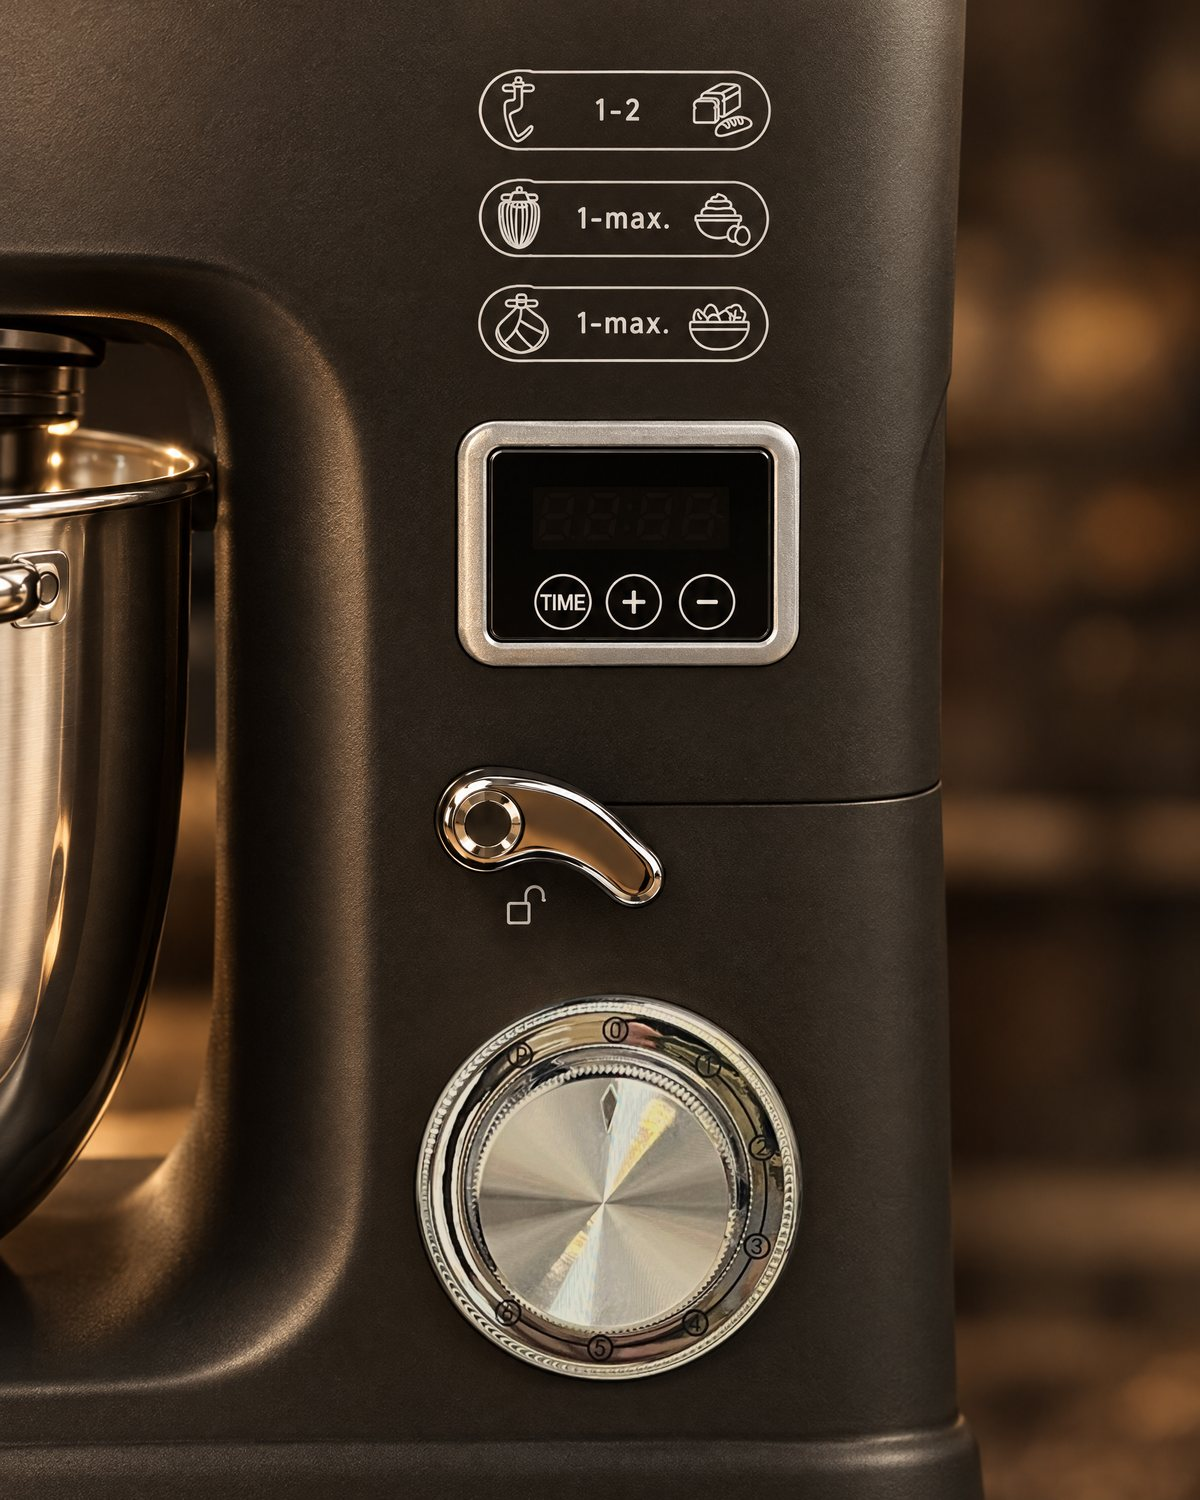
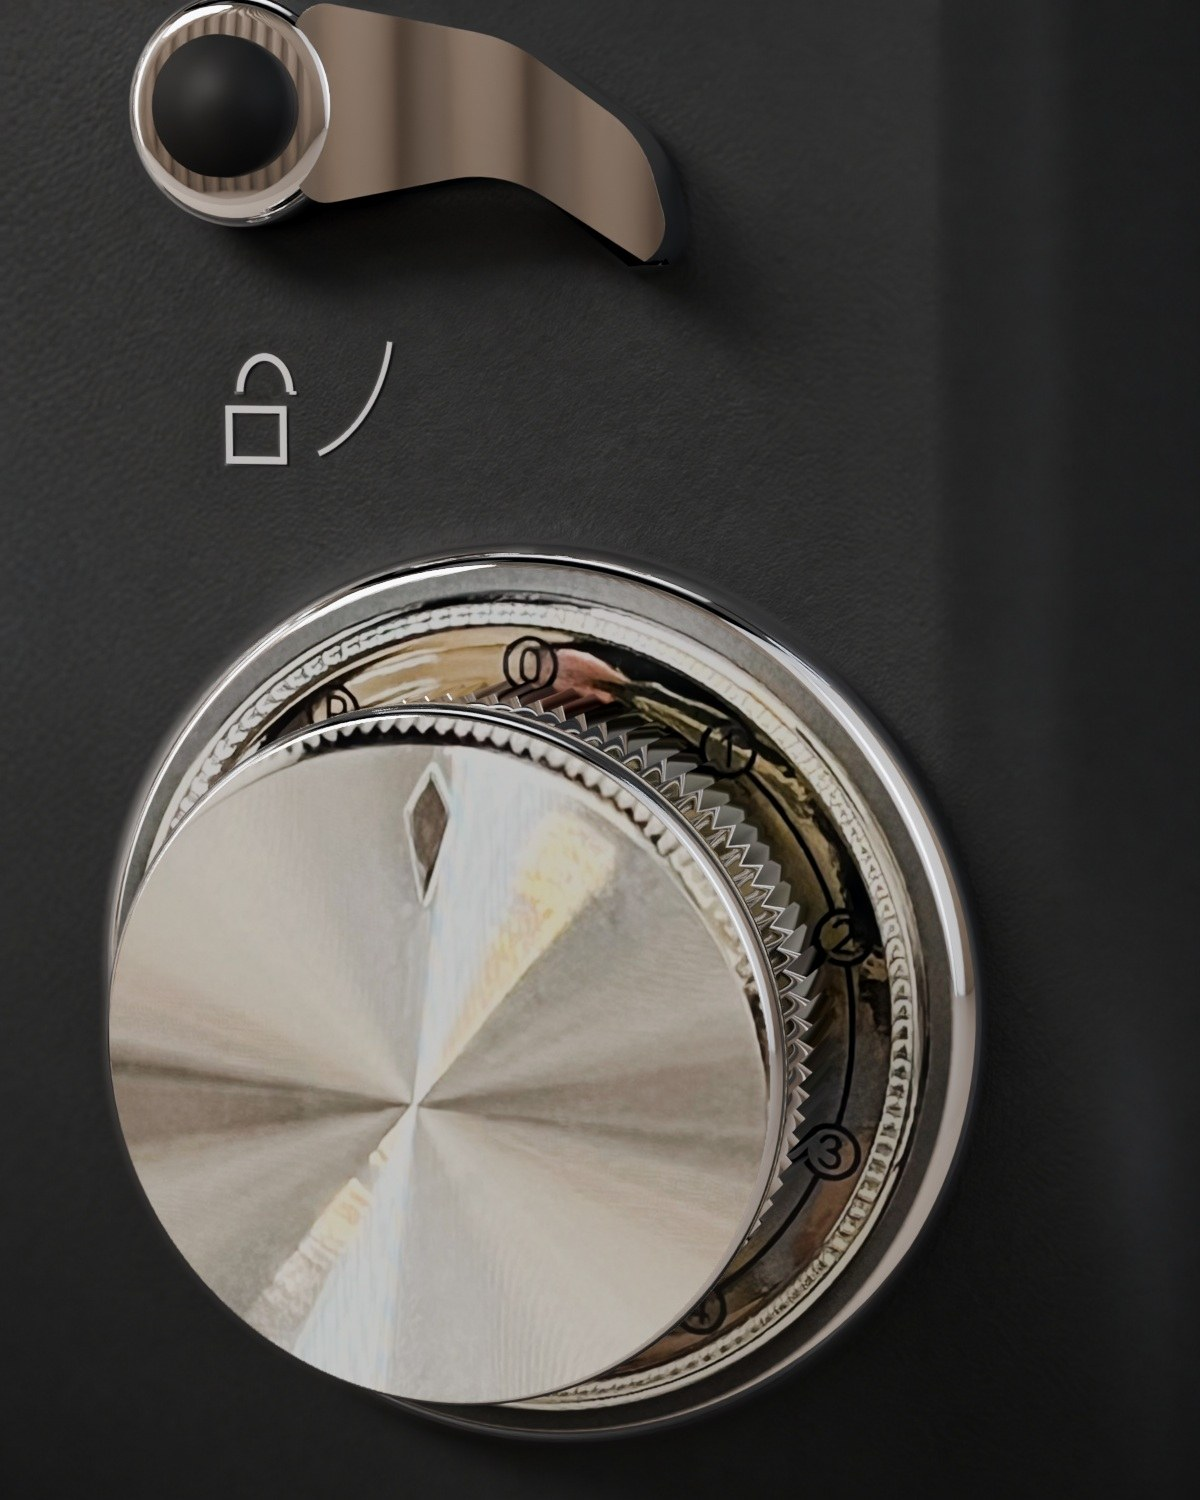
Guide: studio photos from the 3D model for blender, meat grinder and control panel
Claude-Session: https://claude.ai/code/session_01LYzwHMsTzQwc44MpRiCAfd

diff --git a/guide/kk/sm23/attachments/index.html b/guide/kk/sm23/attachments/index.html
@@ -75,7 +75,7 @@
     <div class="body"><span class="meta">Тостағанда · жылдамдық 1–6</span><h3>Көрекше</h3><span class="meta">Қою массалар мен пісірме қамырға</span></div></a><a class="card att" href="/kk/sm23/attachments/whisk/">
     <div class="ph"><img src="/img/a-whisk.jpg?v=fa7d1466" alt="Венчик (көпіршіткіш)" loading="lazy"></div>
     <div class="body"><span class="meta">Тостағанда · жылдамдық 1–6</span><h3>Венчик (көпіршіткіш)</h3><span class="meta">Ауалы массаларға</span></div></a></div></section><section class="grp"><p class="eyebrow">Бүйір жағында</p><div class="grid"><a class="card att" href="/kk/sm23/attachments/grinder/">
-    <div class="ph"><img src="/img/a-grinder.jpg?v=bcc8e13c" alt="Ет тартқыш" loading="lazy"></div>
+    <div class="ph"><img src="/img/a-grinder.jpg?v=696e9a77" alt="Ет тартқыш" loading="lazy"></div>
     <div class="body"><span class="meta">Бүйір жағында · жылдамдық 1–6</span><h3>Ет тартқыш</h3><span class="meta">Қайма, шұжық және кеббе</span></div></a><a class="card att" href="/kk/sm23/attachments/slicer/">
     <div class="ph"><img src="/img/a-slicer.jpg?v=1840bae2" alt="Көкөніс турағыш" loading="lazy"></div>
     <div class="body"><span class="meta">Бүйір жағында</span><h3>Көкөніс турағыш</h3><span class="meta">Үккіш және тілімдеп кесу</span></div></a><a class="card att" href="/kk/sm23/attachments/roller/">
@@ -83,7 +83,7 @@
     <div class="body"><span class="meta">Бүйір жағында</span><h3>Қамыр жаятын қондырма</h3><span class="meta">Тегіс жұқа қамыр бірнеше минутта</span></div></a><a class="card att" href="/kk/sm23/attachments/noodle/">
     <div class="ph"><img src="/img/a-noodle.jpg?v=b1b41049" alt="Кеспе турағыш" loading="lazy"></div>
     <div class="body"><span class="meta">Бүйір жағында</span><h3>Кеспе турағыш</h3><span class="meta">Лағман мен сорпаға үйдегі кеспе</span></div></a></div></section><section class="grp"><p class="eyebrow">Үстінде</p><div class="grid"><a class="card att" href="/kk/sm23/attachments/blender/">
-    <div class="ph"><img src="/img/a-blender.jpg?v=52a4989d" alt="Шыны блендер" loading="lazy"></div>
+    <div class="ph"><img src="/img/a-blender.jpg?v=1df22018" alt="Шыны блендер" loading="lazy"></div>
     <div class="body"><span class="meta">Үстінде</span><h3>Шыны блендер</h3><span class="meta">Смузи, езбе сорпа, тұздық</span></div></a></div></section>
   </div>
 </div></div>

diff --git a/guide/sm23/attachments/index.html b/guide/sm23/attachments/index.html
@@ -75,7 +75,7 @@
     <div class="body"><span class="meta">В чаше · скорость 1–6</span><h3>Лопатка</h3><span class="meta">Для густых масс и теста для выпечки</span></div></a><a class="card att" href="/sm23/attachments/whisk/">
     <div class="ph"><img src="/img/a-whisk.jpg?v=fa7d1466" alt="Венчик" loading="lazy"></div>
     <div class="body"><span class="meta">В чаше · скорость 1–6</span><h3>Венчик</h3><span class="meta">Для воздушных масс</span></div></a></div></section><section class="grp"><p class="eyebrow">Сбоку</p><div class="grid"><a class="card att" href="/sm23/attachments/grinder/">
-    <div class="ph"><img src="/img/a-grinder.jpg?v=bcc8e13c" alt="Мясорубка" loading="lazy"></div>
+    <div class="ph"><img src="/img/a-grinder.jpg?v=696e9a77" alt="Мясорубка" loading="lazy"></div>
     <div class="body"><span class="meta">Сбоку · скорость 1–6</span><h3>Мясорубка</h3><span class="meta">Фарш, колбаски и кеббе</span></div></a><a class="card att" href="/sm23/attachments/slicer/">
     <div class="ph"><img src="/img/a-slicer.jpg?v=1840bae2" alt="Овощерезка" loading="lazy"></div>
     <div class="body"><span class="meta">Сбоку</span><h3>Овощерезка</h3><span class="meta">Тёрка и нарезка ломтиками</span></div></a><a class="card att" href="/sm23/attachments/roller/">
@@ -83,7 +83,7 @@
     <div class="body"><span class="meta">Сбоку</span><h3>Тестораскатка</h3><span class="meta">Ровный тонкий пласт за минуты</span></div></a><a class="card att" href="/sm23/attachments/noodle/">
     <div class="ph"><img src="/img/a-noodle.jpg?v=b1b41049" alt="Лапшерезка" loading="lazy"></div>
     <div class="body"><span class="meta">Сбоку</span><h3>Лапшерезка</h3><span class="meta">Домашняя лапша для лагмана и супа</span></div></a></div></section><section class="grp"><p class="eyebrow">Сверху</p><div class="grid"><a class="card att" href="/sm23/attachments/blender/">
-    <div class="ph"><img src="/img/a-blender.jpg?v=52a4989d" alt="Стеклянный блендер" loading="lazy"></div>
+    <div class="ph"><img src="/img/a-blender.jpg?v=1df22018" alt="Стеклянный блендер" loading="lazy"></div>
     <div class="body"><span class="meta">Сверху</span><h3>Стеклянный блендер</h3><span class="meta">Смузи, супы-пюре, соусы</span></div></a></div></section>
   </div>
 </div></div>

diff --git a/guide/kk/sm23/attachments/grinder/index.html b/guide/kk/sm23/attachments/grinder/index.html
@@ -7,7 +7,7 @@
 <meta name="description" content="Науасы және үш торы бар металл ет тартқыш. Машина басындағы бүйір ұясына орнатылады.">
 <meta property="og:title" content="Ет тартқыш · ATARIA">
 <meta property="og:description" content="Науасы және үш торы бар металл ет тартқыш. Машина басындағы бүйір ұясына орнатылады.">
-<meta property="og:image" content="https://ataria-guide.vercel.app/img/a-grinder.jpg?v=bcc8e13c">
+<meta property="og:image" content="https://ataria-guide.vercel.app/img/a-grinder.jpg?v=696e9a77">
 <meta property="og:type" content="website">
 <meta property="og:locale" content="kk_KZ">
 <meta name="theme-color" content="#17110E">
@@ -68,7 +68,7 @@
     <nav class="tabs" aria-label="Бөлімдер"><a href="/kk/sm23/" class="">Басты бет</a><a href="/kk/sm23/about/" class="">Машина туралы</a><a href="/kk/sm23/start/" class="">Қалай бастау керек</a><a href="/kk/sm23/speeds/" class="">Жылдамдықтар</a><a href="/kk/sm23/attachments/" class="on">Қондырмалар</a><a href="/kk/sm23/recipes/" class="">Рецепттер</a><a href="/kk/sm23/care/" class="">Күтім</a><a href="/kk/sm23/help/" class="">Көмек</a></nav>
     
         <div class="split top">
-          <div class="sticky-col"><div class="ph sticky"><img src="/img/a-grinder.jpg?v=bcc8e13c" alt="Ет тартқыш" loading="lazy"><span class="cap-t">04 · Ет тартқыш</span><span class="cap-b">Жылдамдық 1–6</span></div></div>
+          <div class="sticky-col"><div class="ph sticky"><img src="/img/a-grinder.jpg?v=696e9a77" alt="Ет тартқыш" loading="lazy"><span class="cap-t">04 · Ет тартқыш</span><span class="cap-b">Жылдамдық 1–6</span></div></div>
           <div>
             <p class="eyebrow">Бүйір жағында</p><h1>Ет тартқыш</h1><div class="rule"></div>
             <p class="lead">Науасы және үш торы бар металл ет тартқыш. Машина басындағы бүйір ұясына орнатылады.</p>

diff --git a/guide/sm23/attachments/grinder/index.html b/guide/sm23/attachments/grinder/index.html
@@ -7,7 +7,7 @@
 <meta name="description" content="Металлическая мясорубка с лотком и тремя решётками. Ставится в боковой разъём на голове машины.">
 <meta property="og:title" content="Мясорубка · ATARIA">
 <meta property="og:description" content="Металлическая мясорубка с лотком и тремя решётками. Ставится в боковой разъём на голове машины.">
-<meta property="og:image" content="https://ataria-guide.vercel.app/img/a-grinder.jpg?v=bcc8e13c">
+<meta property="og:image" content="https://ataria-guide.vercel.app/img/a-grinder.jpg?v=696e9a77">
 <meta property="og:type" content="website">
 <meta property="og:locale" content="ru_RU">
 <meta name="theme-color" content="#17110E">
@@ -68,7 +68,7 @@
     <nav class="tabs" aria-label="Разделы"><a href="/sm23/" class="">Главная</a><a href="/sm23/about/" class="">О машине</a><a href="/sm23/start/" class="">С чего начать</a><a href="/sm23/speeds/" class="">Скорости</a><a href="/sm23/attachments/" class="on">Насадки</a><a href="/sm23/recipes/" class="">Рецепты</a><a href="/sm23/care/" class="">Уход</a><a href="/sm23/help/" class="">Помощь</a></nav>
     
         <div class="split top">
-          <div class="sticky-col"><div class="ph sticky"><img src="/img/a-grinder.jpg?v=bcc8e13c" alt="Мясорубка" loading="lazy"><span class="cap-t">04 · Мясорубка</span><span class="cap-b">Скорость 1–6</span></div></div>
+          <div class="sticky-col"><div class="ph sticky"><img src="/img/a-grinder.jpg?v=696e9a77" alt="Мясорубка" loading="lazy"><span class="cap-t">04 · Мясорубка</span><span class="cap-b">Скорость 1–6</span></div></div>
           <div>
             <p class="eyebrow">Сбоку</p><h1>Мясорубка</h1><div class="rule"></div>
             <p class="lead">Металлическая мясорубка с лотком и тремя решётками. Ставится в боковой разъём на голове машины.</p>

diff --git a/guide/sm23/attachments/blender/index.html b/guide/sm23/attachments/blender/index.html
@@ -7,7 +7,7 @@
 <meta name="description" content="Стеклянный кувшин на 1,5 л. Стекло не впитывает запахи и не царапается.">
 <meta property="og:title" content="Стеклянный блендер · ATARIA">
 <meta property="og:description" content="Стеклянный кувшин на 1,5 л. Стекло не впитывает запахи и не царапается.">
-<meta property="og:image" content="https://ataria-guide.vercel.app/img/a-blender.jpg?v=52a4989d">
+<meta property="og:image" content="https://ataria-guide.vercel.app/img/a-blender.jpg?v=1df22018">
 <meta property="og:type" content="website">
 <meta property="og:locale" content="ru_RU">
 <meta name="theme-color" content="#17110E">
@@ -68,7 +68,7 @@
     <nav class="tabs" aria-label="Разделы"><a href="/sm23/" class="">Главная</a><a href="/sm23/about/" class="">О машине</a><a href="/sm23/start/" class="">С чего начать</a><a href="/sm23/speeds/" class="">Скорости</a><a href="/sm23/attachments/" class="on">Насадки</a><a href="/sm23/recipes/" class="">Рецепты</a><a href="/sm23/care/" class="">Уход</a><a href="/sm23/help/" class="">Помощь</a></nav>
     
         <div class="split top">
-          <div class="sticky-col"><div class="ph sticky"><img src="/img/a-blender.jpg?v=52a4989d" alt="Стеклянный блендер" loading="lazy"><span class="cap-t">06 · Стеклянный блендер</span></div></div>
+          <div class="sticky-col"><div class="ph sticky"><img src="/img/a-blender.jpg?v=1df22018" alt="Стеклянный блендер" loading="lazy"><span class="cap-t">06 · Стеклянный блендер</span></div></div>
           <div>
             <p class="eyebrow">Сверху</p><h1>Стеклянный блендер</h1><div class="rule"></div>
             <p class="lead">Стеклянный кувшин на 1,5 л. Стекло не впитывает запахи и не царапается.</p>

diff --git a/guide/kk/sm23/attachments/blender/index.html b/guide/kk/sm23/attachments/blender/index.html
@@ -7,7 +7,7 @@
 <meta name="description" content="Көлемі 1,5 л шыны құмыра. Шыны иісті сіңірмейді және сызылмайды.">
 <meta property="og:title" content="Шыны блендер · ATARIA">
 <meta property="og:description" content="Көлемі 1,5 л шыны құмыра. Шыны иісті сіңірмейді және сызылмайды.">
-<meta property="og:image" content="https://ataria-guide.vercel.app/img/a-blender.jpg?v=52a4989d">
+<meta property="og:image" content="https://ataria-guide.vercel.app/img/a-blender.jpg?v=1df22018">
 <meta property="og:type" content="website">
 <meta property="og:locale" content="kk_KZ">
 <meta name="theme-color" content="#17110E">
@@ -68,7 +68,7 @@
     <nav class="tabs" aria-label="Бөлімдер"><a href="/kk/sm23/" class="">Басты бет</a><a href="/kk/sm23/about/" class="">Машина туралы</a><a href="/kk/sm23/start/" class="">Қалай бастау керек</a><a href="/kk/sm23/speeds/" class="">Жылдамдықтар</a><a href="/kk/sm23/attachments/" class="on">Қондырмалар</a><a href="/kk/sm23/recipes/" class="">Рецепттер</a><a href="/kk/sm23/care/" class="">Күтім</a><a href="/kk/sm23/help/" class="">Көмек</a></nav>
     
         <div class="split top">
-          <div class="sticky-col"><div class="ph sticky"><img src="/img/a-blender.jpg?v=52a4989d" alt="Шыны блендер" loading="lazy"><span class="cap-t">06 · Шыны блендер</span></div></div>
+          <div class="sticky-col"><div class="ph sticky"><img src="/img/a-blender.jpg?v=1df22018" alt="Шыны блендер" loading="lazy"><span class="cap-t">06 · Шыны блендер</span></div></div>
           <div>
             <p class="eyebrow">Үстінде</p><h1>Шыны блендер</h1><div class="rule"></div>
             <p class="lead">Көлемі 1,5 л шыны құмыра. Шыны иісті сіңірмейді және сызылмайды.</p>

diff --git a/guide/kk/sm23/about/index.html b/guide/kk/sm23/about/index.html
@@ -109,7 +109,7 @@
     <div class="body"><span class="meta">Тостағанда · жылдамдық 1–6</span><h3>Көрекше</h3><span class="meta">Қою массалар мен пісірме қамырға</span></div></a><a class="card att" href="/kk/sm23/attachments/whisk/">
     <div class="ph"><img src="/img/a-whisk.jpg?v=fa7d1466" alt="Венчик (көпіршіткіш)" loading="lazy"></div>
     <div class="body"><span class="meta">Тостағанда · жылдамдық 1–6</span><h3>Венчик (көпіршіткіш)</h3><span class="meta">Ауалы массаларға</span></div></a><a class="card att" href="/kk/sm23/attachments/grinder/">
-    <div class="ph"><img src="/img/a-grinder.jpg?v=bcc8e13c" alt="Ет тартқыш" loading="lazy"></div>
+    <div class="ph"><img src="/img/a-grinder.jpg?v=696e9a77" alt="Ет тартқыш" loading="lazy"></div>
     <div class="body"><span class="meta">Бүйір жағында · жылдамдық 1–6</span><h3>Ет тартқыш</h3><span class="meta">Қайма, шұжық және кеббе</span></div></a></div>
   </section>
   <section class="block-section">

diff --git a/guide/kk/sm23/index.html b/guide/kk/sm23/index.html
@@ -103,7 +103,7 @@
     <a class="scene-card" href="/kk/sm23/attachments/whisk/"><img src="/img/a-whisk.jpg?v=fa7d1466" alt="" loading="lazy"><span><b>Крем және безе</b>Венчик, 1–6 жылдамдық</span></a>
     <a class="scene-card" href="/kk/sm23/attachments/roller/"><img src="/img/a-roller.jpg?v=e549d56e" alt="" loading="lazy"><span><b>Қамыр жаю және кеспе</b>8 қалыңдық деңгейі</span></a>
     <a class="scene-card" href="/kk/sm23/attachments/slicer/"><img src="/img/a-slicer.jpg?v=1840bae2" alt="" loading="lazy"><span><b>Көкөніс және ірімшік</b>Үш барабан</span></a>
-    <a class="scene-card" href="/kk/sm23/attachments/grinder/"><img src="/img/a-grinder.jpg?v=bcc8e13c" alt="" loading="lazy"><span><b>Қайма</b>Ет тартқыш, 1–6 жылдамдық</span></a>
+    <a class="scene-card" href="/kk/sm23/attachments/grinder/"><img src="/img/a-grinder.jpg?v=696e9a77" alt="" loading="lazy"><span><b>Қайма</b>Ет тартқыш, 1–6 жылдамдық</span></a>
   </div>
 </section>
 

diff --git a/guide/sm23/about/index.html b/guide/sm23/about/index.html
@@ -109,7 +109,7 @@
     <div class="body"><span class="meta">В чаше · скорость 1–6</span><h3>Лопатка</h3><span class="meta">Для густых масс и теста для выпечки</span></div></a><a class="card att" href="/sm23/attachments/whisk/">
     <div class="ph"><img src="/img/a-whisk.jpg?v=fa7d1466" alt="Венчик" loading="lazy"></div>
     <div class="body"><span class="meta">В чаше · скорость 1–6</span><h3>Венчик</h3><span class="meta">Для воздушных масс</span></div></a><a class="card att" href="/sm23/attachments/grinder/">
-    <div class="ph"><img src="/img/a-grinder.jpg?v=bcc8e13c" alt="Мясорубка" loading="lazy"></div>
+    <div class="ph"><img src="/img/a-grinder.jpg?v=696e9a77" alt="Мясорубка" loading="lazy"></div>
     <div class="body"><span class="meta">Сбоку · скорость 1–6</span><h3>Мясорубка</h3><span class="meta">Фарш, колбаски и кеббе</span></div></a></div>
   </section>
   <section class="block-section">

diff --git a/guide/sm23/index.html b/guide/sm23/index.html
@@ -103,7 +103,7 @@
     <a class="scene-card" href="/sm23/attachments/whisk/"><img src="/img/a-whisk.jpg?v=fa7d1466" alt="" loading="lazy"><span><b>Крем и безе</b>Венчик, скорость 1–6</span></a>
     <a class="scene-card" href="/sm23/attachments/roller/"><img src="/img/a-roller.jpg?v=e549d56e" alt="" loading="lazy"><span><b>Раскатка и лапша</b>8 уровней толщины</span></a>
     <a class="scene-card" href="/sm23/attachments/slicer/"><img src="/img/a-slicer.jpg?v=1840bae2" alt="" loading="lazy"><span><b>Овощи и сыр</b>Три барабана</span></a>
-    <a class="scene-card" href="/sm23/attachments/grinder/"><img src="/img/a-grinder.jpg?v=bcc8e13c" alt="" loading="lazy"><span><b>Фарш</b>Мясорубка, скорость 1–6</span></a>
+    <a class="scene-card" href="/sm23/attachments/grinder/"><img src="/img/a-grinder.jpg?v=696e9a77" alt="" loading="lazy"><span><b>Фарш</b>Мясорубка, скорость 1–6</span></a>
   </div>
 </section>
 
